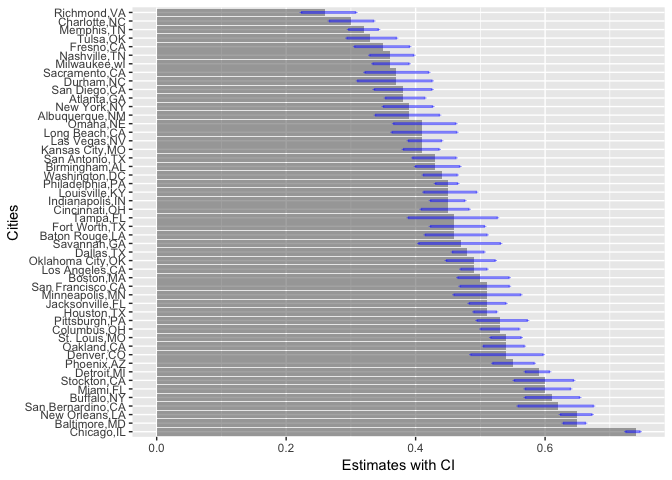
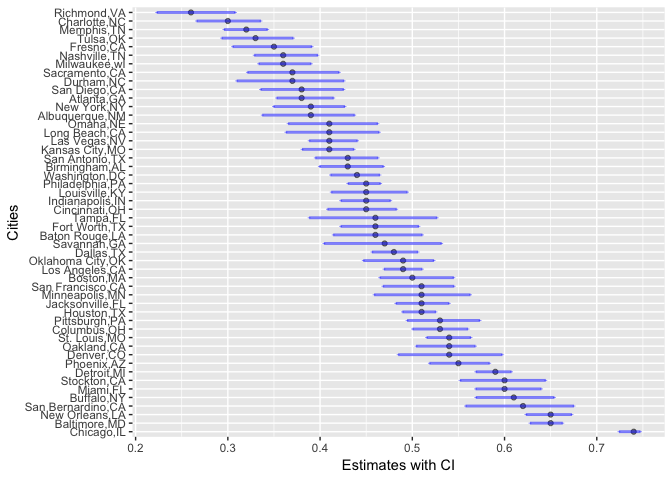
change to point

diff --git a/p8105_hw5_dz2399.md b/p8105_hw5_dz2399.md
@@ -178,7 +178,7 @@ The plot of estimates and CIs for each city
 df_all_prop %>% 
   mutate(estimate=round(estimate,2)) %>% 
   ggplot(aes(x=reorder(city_state,-estimate),y=estimate))+
-  geom_bar(stat = 'identity',alpha=.5)+
+  geom_point(stat = 'identity',alpha=.5)+
   geom_errorbar(mapping=aes(x=city_state, ymin=conf.low, ymax=conf.high), width=0.1, size=1, color="blue",alpha=.5)+
     coord_flip()+
   xlab('Cities')+
